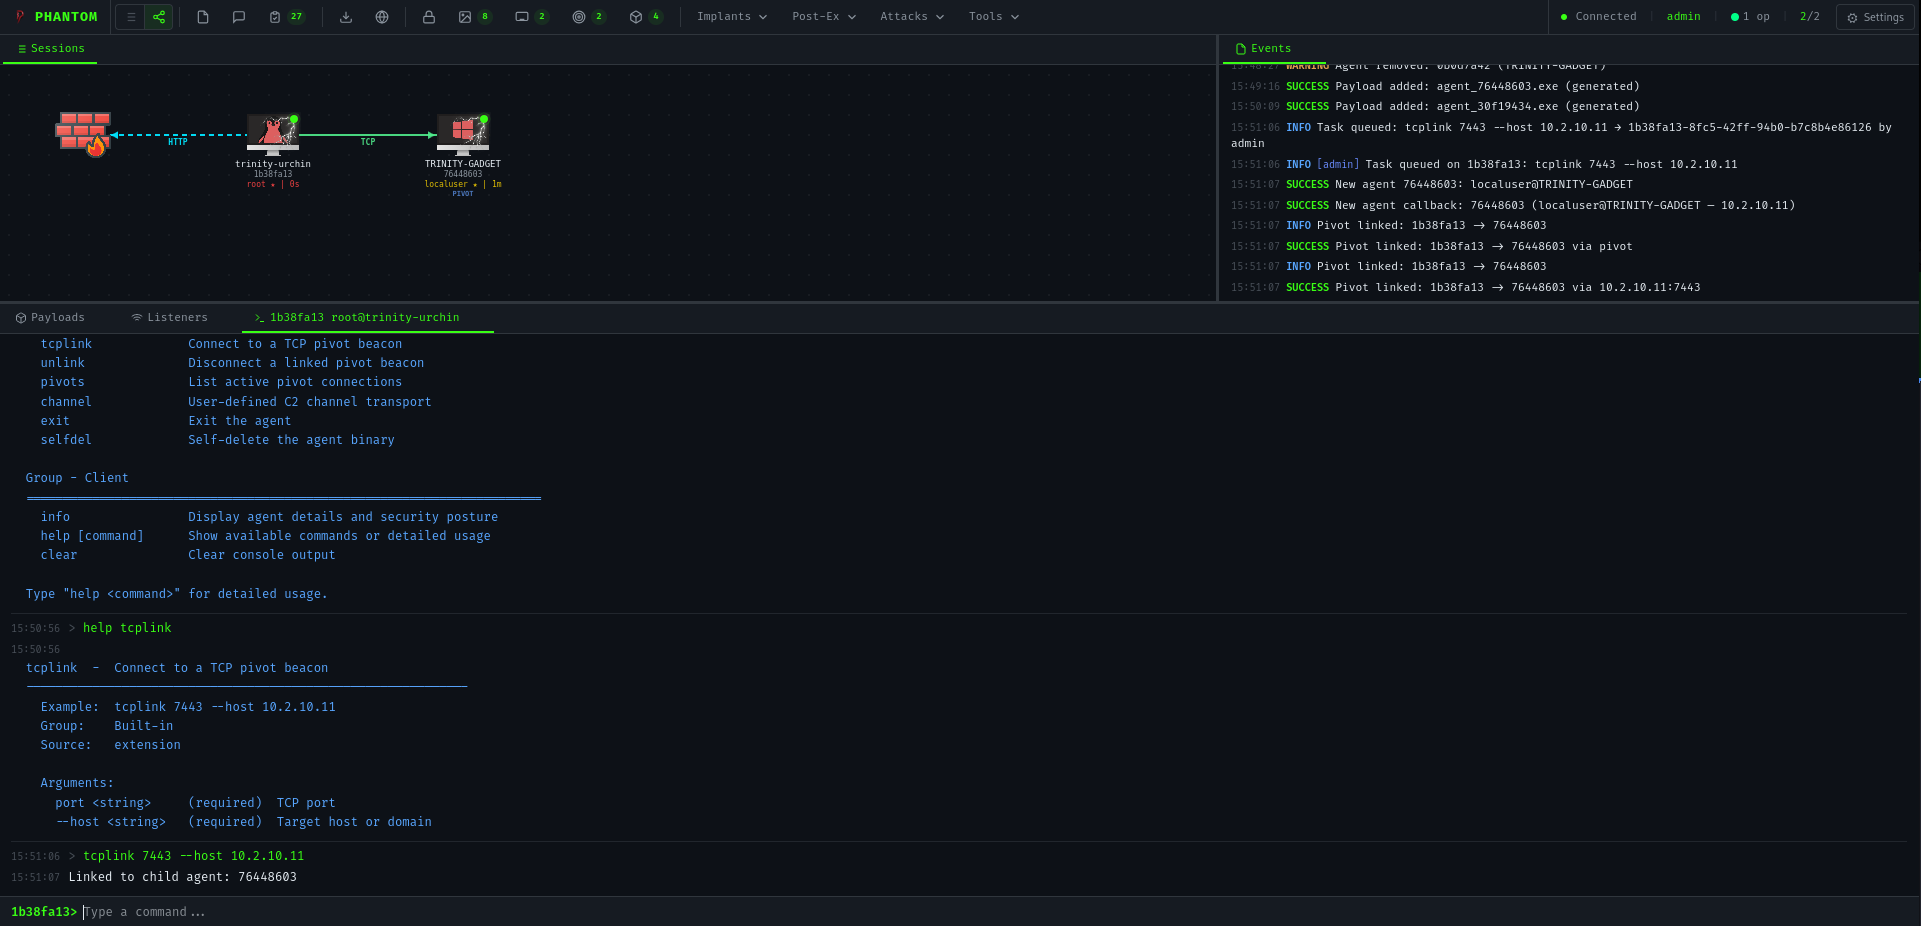
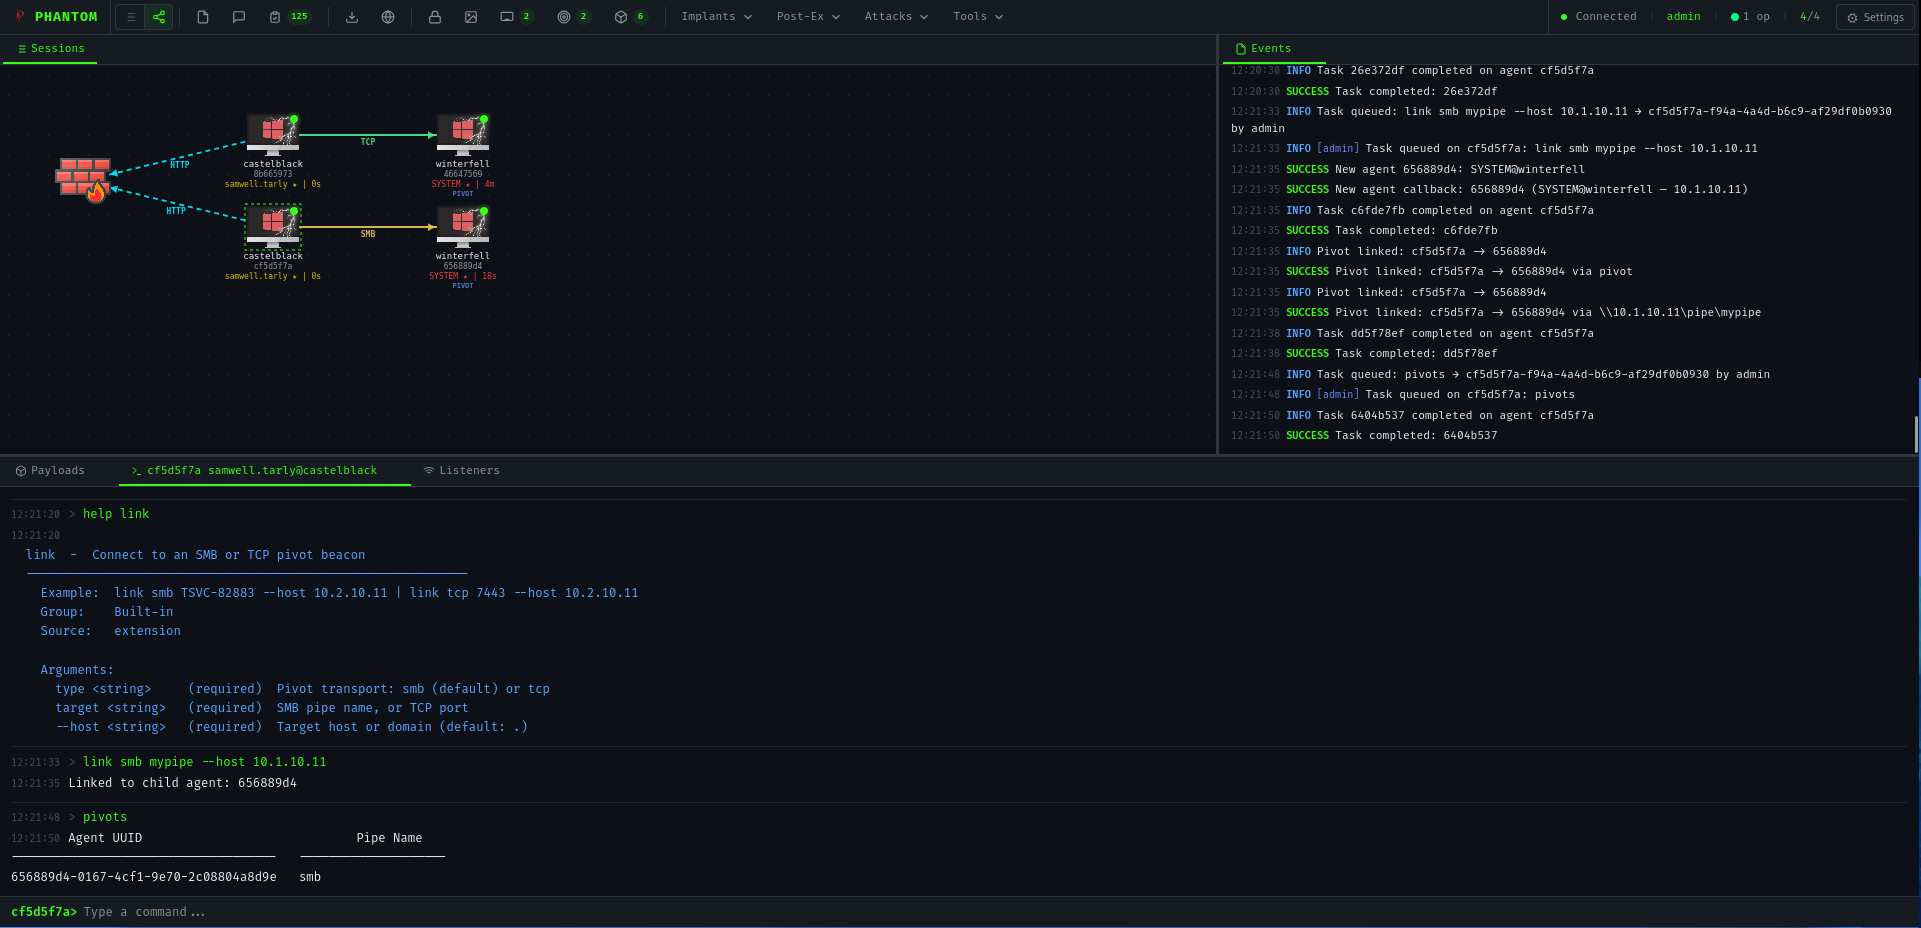
update visuals

diff --git a/src/components/ProductVisual.tsx b/src/components/ProductVisual.tsx
@@ -28,11 +28,6 @@ const productImages = [
     alt: "Clean Stack Spoofing",
     label: "Clean Call Stack Spoofing",
   },
-  { 
-    src: "/assets/product/phantom-lateral-movement2.png",
-    alt: "Lateral Movement",
-    label: "Pivoting",
-  },
   {
     src: "/assets/product/phantom-audit.png",
     alt: "Audit Trail",
